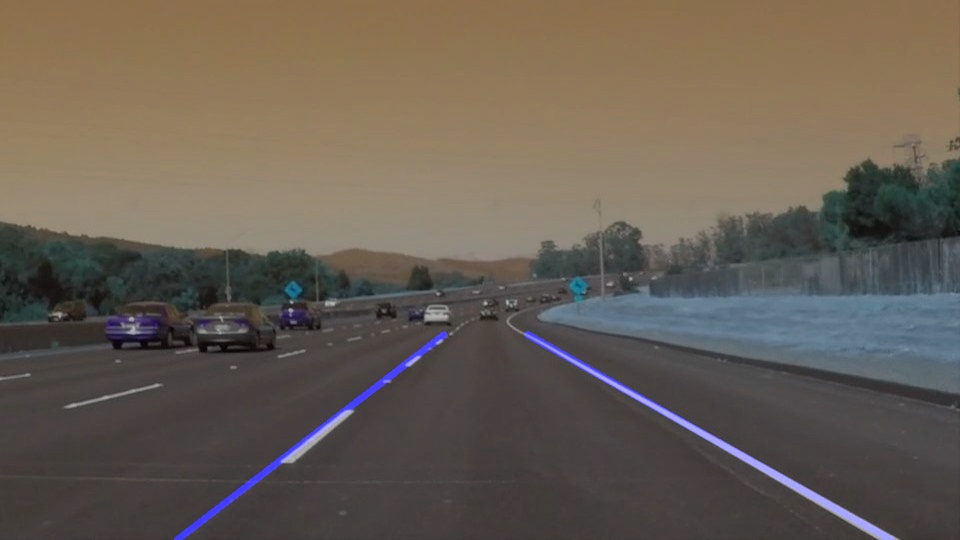
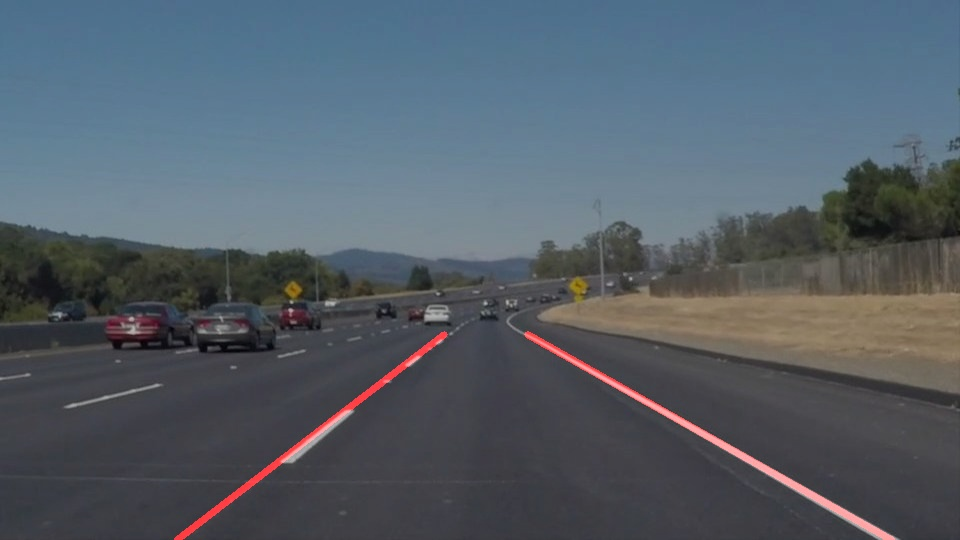
Fixing image export (color conversion)

diff --git a/README.md b/README.md
@@ -23,7 +23,7 @@ The image processing pipeline implemented in the project [Jupyter notebook](P1.i
 7. Average the left/right half line segments and extrapolating them to the trapezoidal area.
 8. Overlay the original image with the detected lane line.
 
-<img src="test_images_output/solidYellowCurve.jpg" width="200">
+<img src="test_images_output/solidYellowCurve.jpg" width="250">
 
 ## Structure
 
